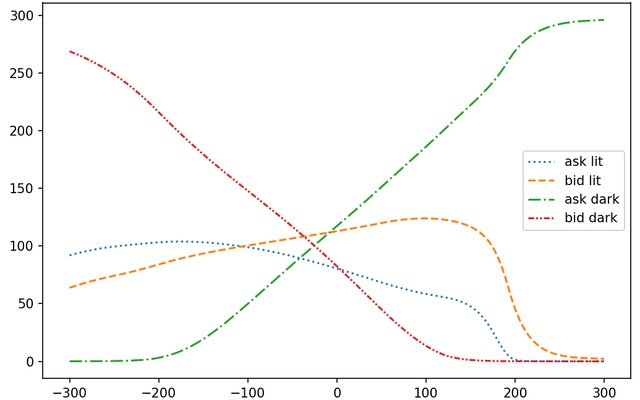
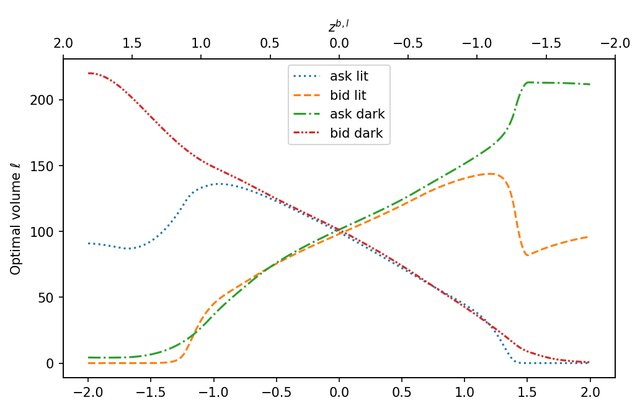
Polish: new controls figure, implicit thesis link, Statkraft hint, plainer phrasing, researcher interests line

diff --git a/projects/market-maker-contracts.html b/projects/market-maker-contracts.html
@@ -31,10 +31,9 @@
         Following Baldacci, Manziuk, Mastrolia and Rosenbaum (2019), this is a <strong>principal–agent problem</strong>:
         the exchange posts an incentive contract over the market maker's executed volumes, and the market maker
         responds with optimal bid and ask quotes in the lit book and the dark pool while managing inventory risk.
-        Neither of the two nested value functions has a usable closed form, so we solved the whole problem with
-        neural networks. Methodologically this is the same programme as my NTNU thesis: deep learning as the
-        numerical method for high-dimensional Hamilton–Jacobi–Bellman equations that classical solvers cannot
-        handle well.
+        Neither of the two nested value functions has a usable closed form, so we solved the whole problem
+        end-to-end with neural networks: deep learning as the numerical method for Hamilton–Jacobi–Bellman
+        equations that classical solvers handle poorly.
       </p>
 
       <h3>Two coupled learning problems</h3>
@@ -45,7 +44,7 @@
         <li><strong>The agent's best response, learned without labels.</strong> A network \(L(z, q)\) takes the
           incentive \(z\) and inventory \(q\) and outputs the four quotes (bid and ask, lit and dark). It is trained
           by maximising the continuous-time Hamiltonian directly through the computational graph: the economic
-          objective itself is the training signal, so no solved examples are ever needed.</li>
+          objective itself is the training signal, so no solved examples are needed.</li>
         <li><strong>The principal's HJB, solved as supervised learning.</strong> Backward induction turns the
           exchange's PDE into a sequence of regression problems, one per time step, with an
           <strong>actor–critic</strong> split: the critic approximates the exchange's value function and the actor
@@ -61,8 +60,7 @@
         solved backwards from the terminal date one time step at a time, each step a supervised learning problem.
         The repository implements two solver regimes: a sequential backward sweep, which is more accurate per time
         step, and a parallel Jacobi-style update over all time steps at once, which trades some accuracy for much
-        cheaper iterations. Choosing between them is a standard compute-versus-accuracy decision rather than a
-        modelling one.
+        cheaper iterations.
       </p>
 
       <h3>Results</h3>
@@ -76,8 +74,8 @@
       </ul>
 
       <figure>
-        <img src="../assets/img/market_maker.jpg" alt="Optimal quoted volumes by inventory for lit and dark pool quotes" loading="lazy" />
-        <figcaption>Optimal quoted volumes for bid and ask quotes in the lit book and the dark pool, as a function of market-maker inventory, under the learned incentive contract.</figcaption>
+        <img src="../assets/img/market_maker.jpg" alt="Optimal quoted volumes against the lit-book incentive for lit and dark pool quotes" loading="lazy" />
+        <figcaption>Optimal quoted volumes for bid and ask quotes in the lit book and the dark pool, as a function of the lit-book incentive, at a fixed inventory level.</figcaption>
       </figure>
 
       <p class="muted" style="font-size: 13.5px;">

diff --git a/index.html b/index.html
@@ -4,7 +4,7 @@
   <meta charset="utf-8" />
   <meta name="viewport" content="width=device-width, initial-scale=1" />
   <title>Christopher Laloi Dybdahl</title>
-  <meta name="description" content="Christopher Laloi Dybdahl, quantitative researcher. Stochastic control, statistical methods in finance, and machine learning for markets. Imperial College London and NTNU." />
+  <meta name="description" content="Christopher Laloi Dybdahl, quantitative researcher. Deep learning for computational mathematics, stochastic control, reinforcement learning, and their application to financial markets. Imperial College London and NTNU." />
   <meta property="og:title" content="Christopher Laloi Dybdahl" />
   <meta property="og:description" content="Quantitative research: stochastic control, statistical methods in finance, and machine learning for markets." />
   <meta property="og:url" content="https://christopher-dybdahl.github.io/" />
@@ -29,8 +29,9 @@
             </p>
             <p>
               I have worked as a <strong>Quantitative Research Intern at Squarepoint Capital</strong> (Macro, London) and as a
-              Power Trading Intern at <strong>Statkraft</strong>. My research interests are stochastic control,
-              statistical methods in finance, and machine learning for markets.
+              Power Trading Intern at <strong>Statkraft</strong>. My research interests are deep learning for
+              computational mathematics, in particular high-dimensional stochastic control and PDEs, reinforcement
+              learning, and their application to financial markets.
             </p>
           </div>
         </div>
@@ -116,7 +117,7 @@
         </div>
 
         <div class="card">
-          <img src="assets/img/market_maker.jpg" alt="Optimal quoted volumes by inventory for lit and dark pool quotes" loading="lazy" />
+          <img src="assets/img/market_maker.jpg" alt="Optimal quoted volumes against the lit-book incentive for lit and dark pool quotes" loading="lazy" />
           <div class="body">
             <p class="title">Optimal Make–Take Contracts via Deep HJB Solvers</p>
             <p class="desc">

diff --git a/projects/deep-stochastic-control.html b/projects/deep-stochastic-control.html
@@ -29,11 +29,10 @@
       <p class="lead">
         A producer selling into the continuous intraday electricity market must unwind a position whose very size is
         uncertain: renewable forecasts keep revising the volume that will actually be delivered. We formulate this as a
-        finite-horizon stochastic control problem in the Almgren–Chriss tradition, extended with renewable forecast
+        finite-horizon stochastic control problem, an Almgren–Chriss execution model extended with renewable forecast
         uncertainty, permanent and temporary price impact, and a bid–ask spread. The frictions put the problem out of
-        reach of classical solvers, so we built a deep learning method for it: neural networks as the numerical
-        scheme for a mathematical problem, not as a black-box trading signal. The problem itself was motivated by
-        discussions with Statkraft's intraday trading desks.
+        reach of classical solvers, so we built a deep learning method for it, with neural networks as the numerical
+        scheme. The thesis was completed during my internship on Statkraft's UK intraday power trading desk.
       </p>
 
       <h3>Why the standard tools break</h3>
@@ -46,13 +45,13 @@
         $$ \partial_t V + \sup_{u}\,\Big\{ \mathcal{L}^{u} V + f(x, u) \Big\} = 0, \qquad V(T,\cdot) = g, $$
       </p>
       <p>
-        which we recast as a forward–backward SDE in the deep BSDE tradition of Han, Jentzen and E, and approximate
+        which we recast as a forward–backward SDE following the deep BSDE method of Han, Jentzen and E, and approximate
         with neural networks trained on simulated paths of the market state.
       </p>
 
       <h3>Architecture and loss design</h3>
       <p>
-        The solver's accuracy lives or dies on two design choices:
+        The main design choices:
       </p>
       <ul>
         <li><strong>Network architecture.</strong> The value process is a hybrid <strong>NAIS-Net–LSTM</strong>: a
